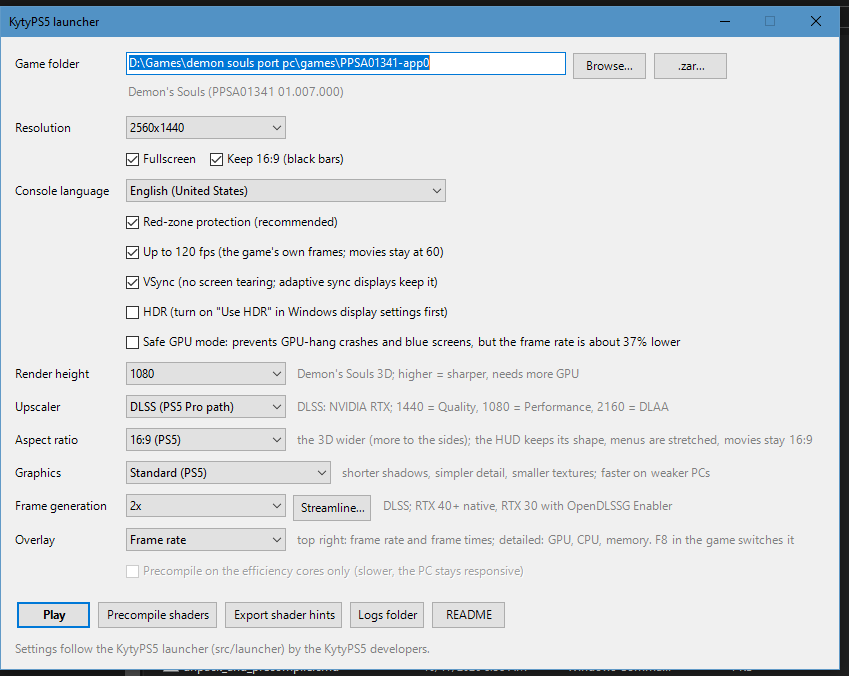
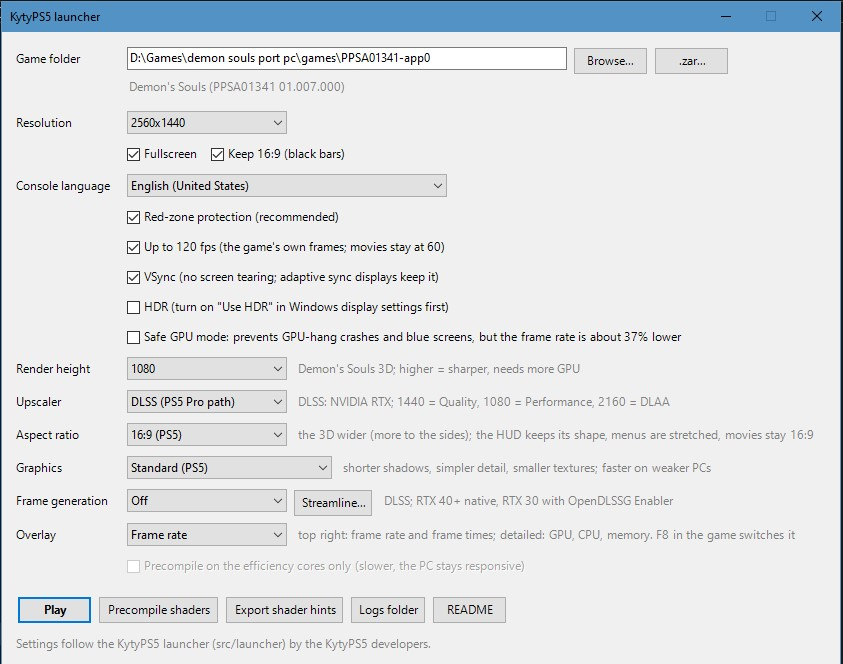
Update RTX 30 observations with user 85 FPS DLSS and settings screenshots

diff --git a/README.md b/README.md
@@ -9,11 +9,15 @@ The DLSS PS5 Pro path now sizes its scene reconstruction to the selected launche
 
 ### RTX 3070 observations
 
-| Bridge: 1080p DLSS + 2× FG | Bridge: native 1440p + 2× FG |
+| 1080p DLSS (PS5 Pro path) Settings | 1080p DLSS → 1440p + 2× FG (85 FPS) |
 | :---: | :---: |
-| ![1080p DLSS: 34 base, 68 displayed FPS](docs/images/rtx3070-dlss1080-fg2x-bridge.png) | ![Native 1440p: 29 base, 58 displayed FPS](docs/images/rtx3070-native1440-fg2x-bridge.png) |
+| ![1080p DLSS Settings](docs/images/rtx3070-dlss1080-fg2x-settings.png) | ![1080p DLSS: 43 base, 85 displayed FPS](docs/images/rtx3070-dlss1080-fg2x-bridge.png) |
 
-These user screenshots show **34 real / 68 displayed FPS** with DLSS and **29 / 58** with native rendering. They are observations, not controlled benchmark averages: camera framing and earlier executable differences limit direct comparison. Performance varies by scene, settings and hardware; no fixed frame rate is guaranteed. [Settings, additional images and validation limits](docs/RTX30_FRAME_GEN_GUIDE.md).
+| Native 1440p (Game PS5) Settings | Native 1440p + 2× FG (60 FPS) |
+| :---: | :---: |
+| ![Native 1440p Settings](docs/images/rtx3070-native1440-fg2x-settings.png) | ![Native 1440p: 30 base, 60 displayed FPS](docs/images/rtx3070-native1440-fg2x-bridge.png) |
+
+These user screenshots show **43 real / 85 displayed FPS** with 1080p DLSS and **30 real / 60 displayed FPS** with native 1440p rendering (both with 2× frame generation on an RTX 3070 8 GB + Ryzen 7 5800X3D). They are observations, not controlled benchmark averages: camera framing and earlier executable differences limit direct comparison. Performance varies by scene, settings and hardware; no fixed frame rate is guaranteed. [Settings, additional images and validation limits](docs/RTX30_FRAME_GEN_GUIDE.md).
 
 Frame generation consumes GPU time and memory, so it can reduce **base FPS** while increasing **displayed FPS**. Generated frames do not double simulation or input-update speed. Frame time is not a measurement of end-to-end input latency. Similar FPS at 1080p DLSS and native 1440p with FG disabled does not establish a CPU bottleneck; fixed rendering/emulation work and reconstruction overhead also affect scaling.
 

diff --git a/docs/RELEASE-NOTES.md b/docs/RELEASE-NOTES.md
@@ -4,7 +4,7 @@
 - Share the SR/FG frame token, retain separate viewport IDs, and log actual SR success/fallback counts. Valid SR output is retained when Streamline returns its budget warning.
 - Add DXGI-first memory-pressure sampling, staged safe cache collection, completed-pool trimming and bounded resource diagnostics. Texture quality is unchanged; memory pressure remains possible on 8 GB cards.
 - Resolve one launcher executable for both native and DLSS modes, with an explicit developer override.
-- Include setup instructions and six user screenshots in the ZIP's `docs` folder. Bridge observations: **34 real / 68 displayed FPS** with 1080p DLSS versus **29 / 58** with native 1440p, both 2× FG. Views/builds were not controlled; no performance guarantee is implied.
+- Include setup instructions and six user screenshots in the ZIP's `docs` folder. Bridge observations: **43 real / 85 displayed FPS** with 1080p DLSS versus **30 / 60** with native 1440p, both 2× FG. Views/builds were not controlled; no performance guarantee is implied.
 
 **Required:** enable Windows hardware-accelerated GPU scheduling (HAGS), restart, and install the separate NVIDIA-signed Streamline runtime plus OpenDLSSG Enabler for RTX 30 FG. Runtime/proxy DLLs are not included. FG consumes GPU time and memory; displayed FPS is distinct from simulation/base FPS and input latency.
 

diff --git a/docs/PORTABLE-README.md b/docs/PORTABLE-README.md
@@ -21,7 +21,7 @@ Frame generation **2×**. For native select Render height **1440 (PS5)** and Ups
 Each upscaler remembers its own render height. DLSS signature validation was tested with v1.07;
 unsupported layouts fall back to TAA with a diagnostic.
 
-User bridge snapshots show **34 real / 68 displayed FPS** for DLSS and **29 / 58** for native.
+User bridge snapshots show **43 real / 85 displayed FPS** for DLSS and **30 / 60** for native.
 These are observations, not controlled averages or guaranteed frame rates. FG uses GPU time and
 memory and can lower base FPS; frame times do not measure end-to-end input latency.
 Eight-gigabyte cards can still exceed the Windows video-memory budget, and long-session memory

diff --git a/docs/RTX30_FRAME_GEN_GUIDE.md b/docs/RTX30_FRAME_GEN_GUIDE.md
@@ -31,7 +31,7 @@ The DLSS route uses **1920×1080 scene inputs → 2560×1440 SR output**, while 
 
 | Scene | 1080p DLSS + 2× FG (base / displayed) | Native 1440p + 2× FG (base / displayed) |
 | --- | --- | --- |
-| Bridge | 34 / 68 FPS | 29 / 58 FPS |
+| Bridge | 43 / 85 FPS | 30 / 60 FPS |
 | Interior | 42 / 83 FPS | 27 / 54 FPS |
 
 | DLSS bridge | Native bridge |
